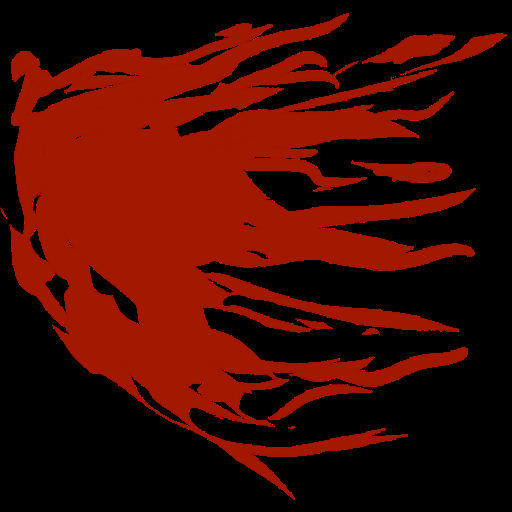
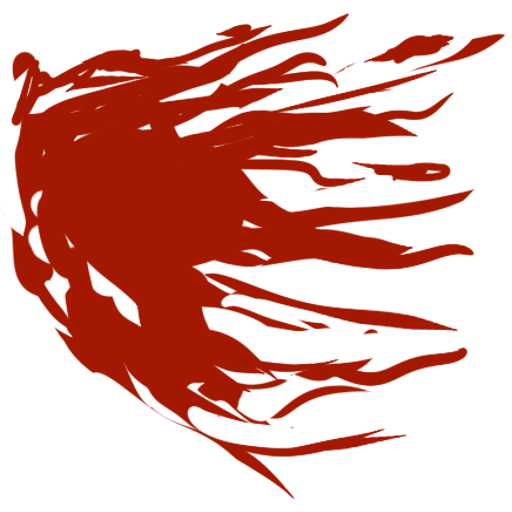
generated more blood splatters

diff --git a/gen.py b/gen.py
@@ -1,0 +1,24 @@
+import openai
+import uuid
+import requests
+
+def gen_variations(fname, num_variations = 1):
+    source_img = open(fname, "rb")
+    response = openai.Image.create_variation(
+        image = source_img,
+        n = num_variations,
+        size="512x512"
+    )
+
+    print(response)
+
+    filename = fname.split("/")[-1].split(".")[0]
+
+    for i in range(num_variations):
+        url = response["data"][i]["url"]
+        with open("generated/" + filename + "_" + str(uuid.uuid4()) + ".png", "wb") as f:
+            f.write(requests.get(url).content)
+
+if __name__ == "__main__":
+    for i in range(1, 9):
+        gen_variations("512/bloodsplatter" + str(i) + ".png", 4)

diff --git a/resize.py b/resize.py
@@ -22,8 +22,8 @@ for i in range(1, 9):
     top = (dest_size[1] - new_size[1]) // 2
     img = add_margin(img, top, left, (0, 0, 0, 0))
 
-    # remove alpha
-    img = img.convert('RGB')
+    # # remove alpha
+    # img = img.convert('RGB')
 
     print(img.size)
     # Save
